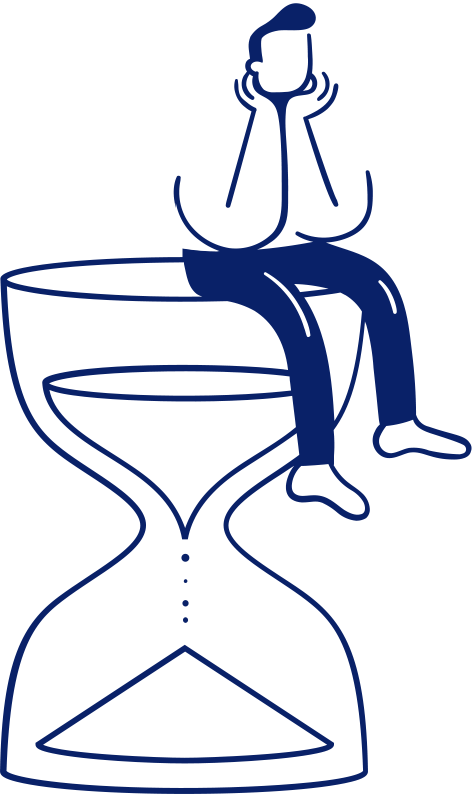
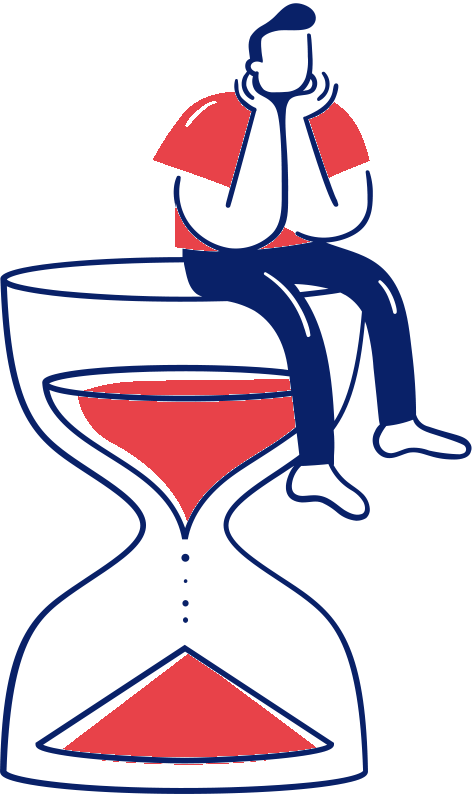
Update waiting image provided by Adam

diff --git a/index.html b/index.html
@@ -133,7 +133,7 @@
         <div class="container reveal fade-bottom">
             <div class="content">
                 <div class="visuals">
-                    <image class="reveal fade" src="img/waiting-3.png" style="max-height: 400px;"></image>
+                    <image class="reveal fade" src="img/waiting-2.png" style="max-height: 400px;"></image>
                 </div>
                 <div class="descriptions">
                     <div class="title">
